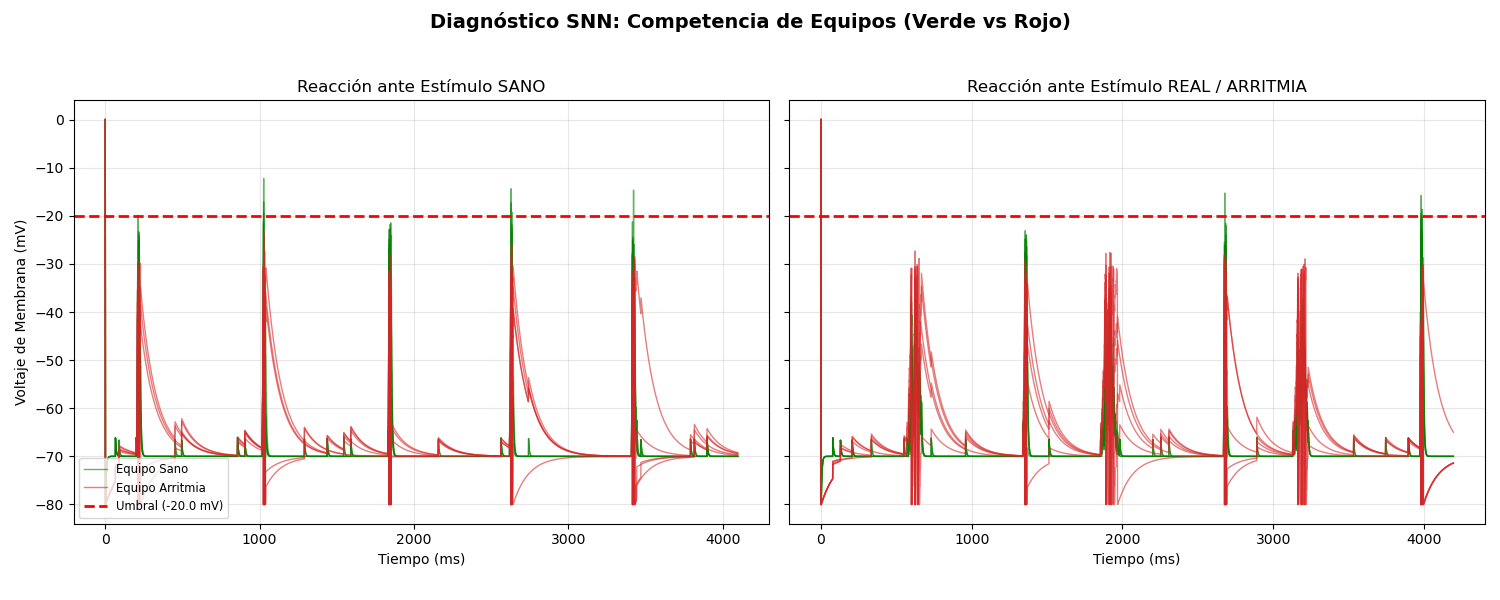
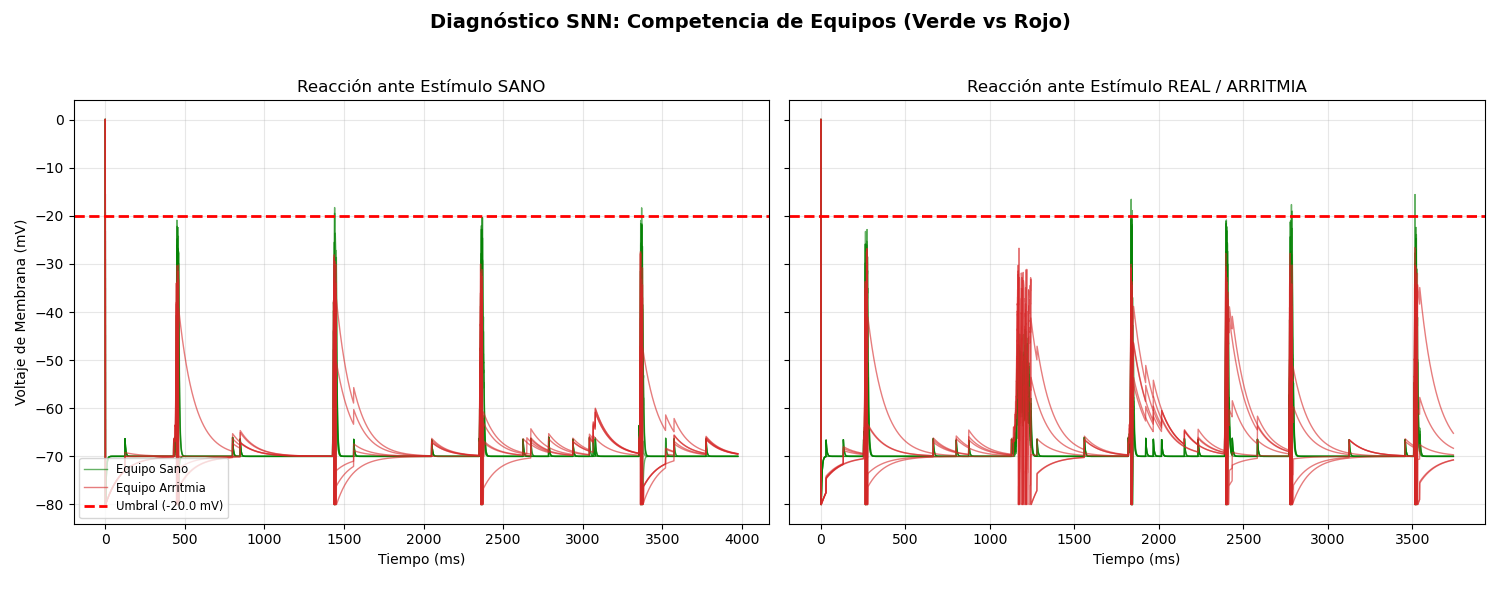
cambios

diff --git a/main_ecg.py b/main_ecg.py
@@ -197,31 +197,31 @@ if __name__ == '__main__':
     loader = RealECGLoader(n_input=TOTAL_NEURONAS_INPUT)
     
     # --- CASO A: PACIENTE SANO ---
-    print("\n🏥 Cargando Paciente Sano (MIT-BIH 101)...")
+    print("\n🏥 Cargando Paciente Sano (MIT-BIH 115)...")
     # 1. Recuperamos la señal cruda para pintar
-    raw_signal_100, _, fs_100 = loader.load_mit_bih_data('101', duration_sec=DURACION_TEST/b2.second)
+    raw_signal_100, _, fs_100 = loader.load_mit_bih_data('115', duration_sec=DURACION_TEST/b2.second)
     # 2. Generamos los spikes
     indices_healthy, times_healthy = loader.ecg_to_spikes(
-        input_data='100', 
+        input_data='115', 
         duration_sec=DURACION_TEST/b2.second
     )
-    loader.validate_detection(times_healthy/b2.second, '101')
+    loader.validate_detection(times_healthy/b2.second, '115')
     # 3. ¡PINTAMOS LA VALIDACIÓN! 🖌
     from src.visualization import plot_ecg_validation
-    plot_ecg_validation(raw_signal_100, fs_100, times_healthy, title="Validación Paciente 101 (Sano)")
+    plot_ecg_validation(raw_signal_100, fs_100, times_healthy, title="Validación Paciente 115 (Sano)")
     
     
     # --- CASO B: PACIENTE ARRÍTMICO ---
-    print("💔 Cargando Paciente Arrítmico (MIT-BIH 201)...")
-    raw_signal_200, _, fs_200 = loader.load_mit_bih_data('201', duration_sec=DURACION_TEST/b2.second)
+    print("💔 Cargando Paciente Arrítmico (MIT-BIH 203)...")
+    raw_signal_200, _, fs_200 = loader.load_mit_bih_data('203', duration_sec=DURACION_TEST/b2.second)
     
     indices_arrhythmia, times_arrhythmia = loader.ecg_to_spikes(
-        input_data='200', 
+        input_data='203', 
         duration_sec=DURACION_TEST/b2.second
     )
-    loader.validate_detection(times_arrhythmia/b2.second, '201')
+    loader.validate_detection(times_arrhythmia/b2.second, '203')
     
-    plot_ecg_validation(raw_signal_200, fs_200, times_arrhythmia, title="Validación Paciente 201 (Arritmia)")
+    plot_ecg_validation(raw_signal_200, fs_200, times_arrhythmia, title="Validación Paciente 203 (Arritmia)")
     
 # 6. Ejecutar test
     print("\n🩺 Ejecutando diagnóstico...")
